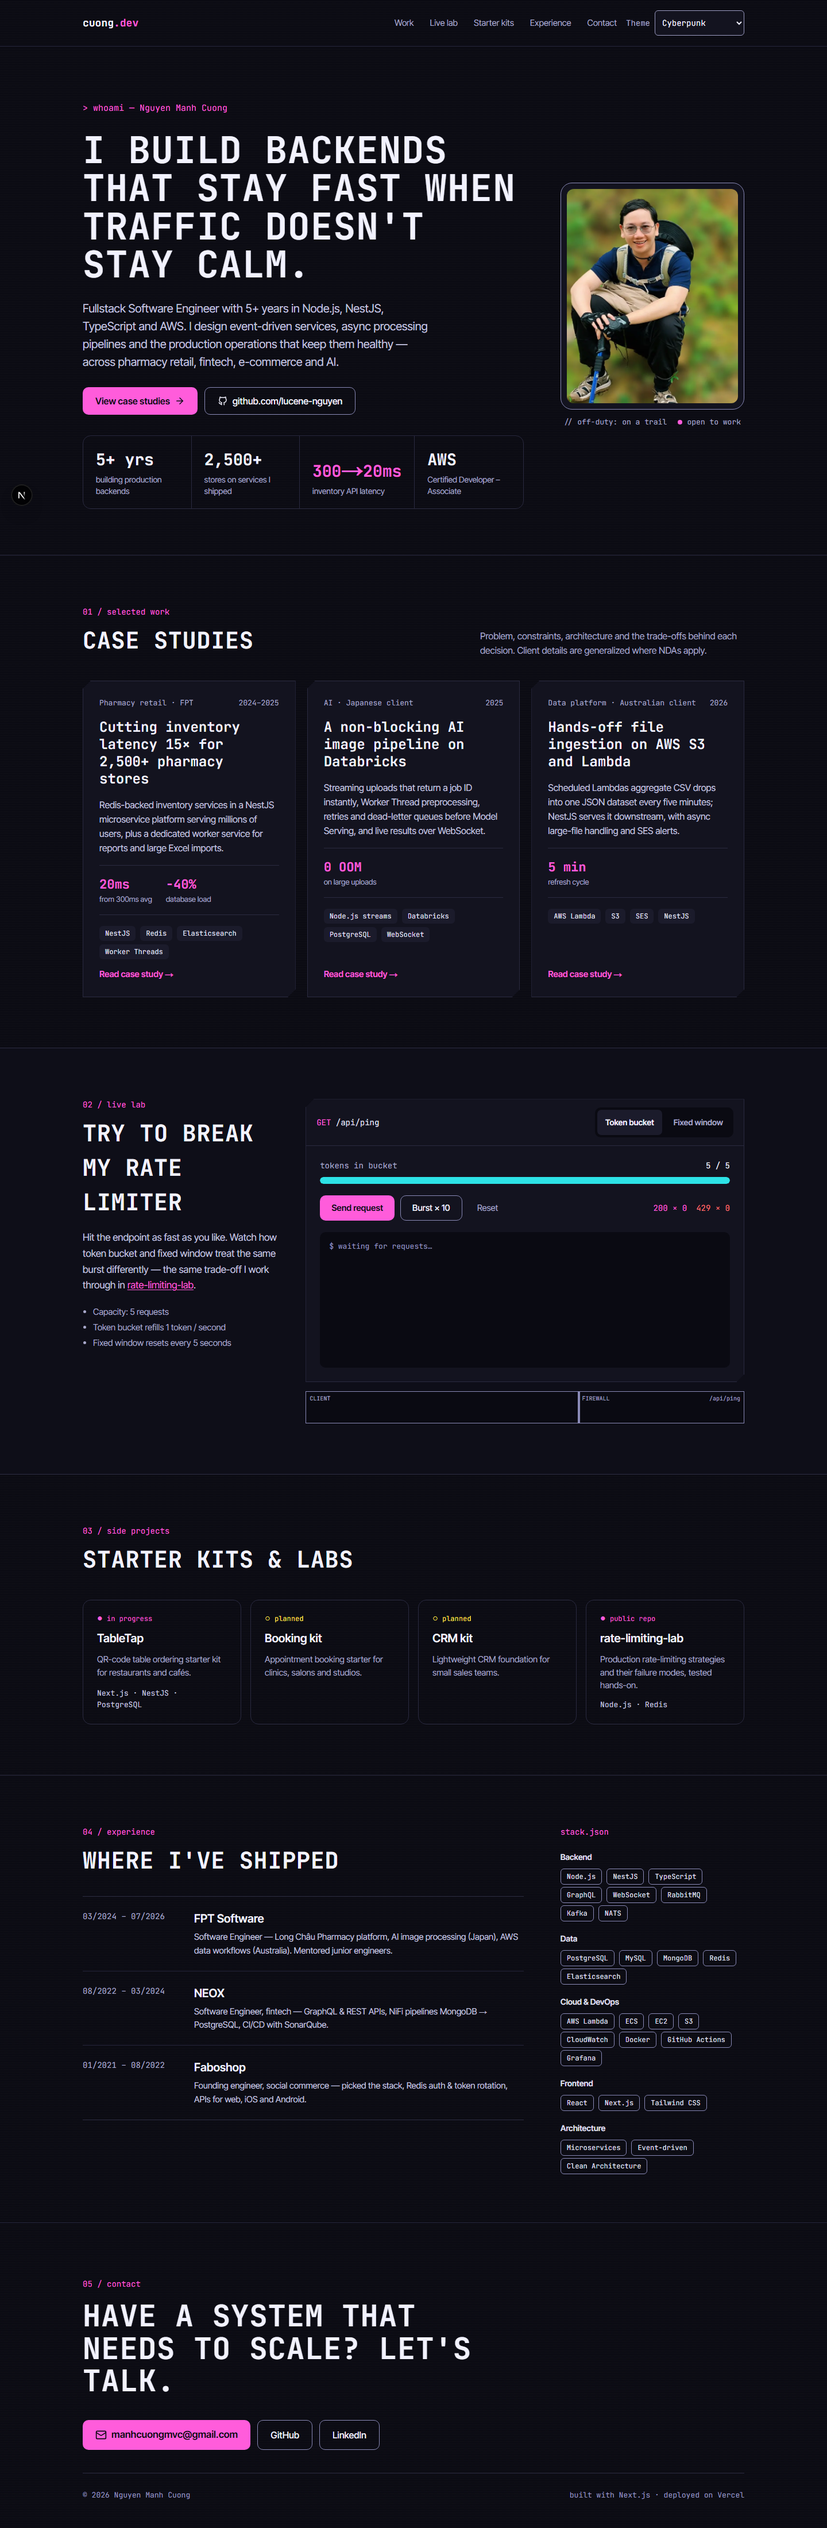
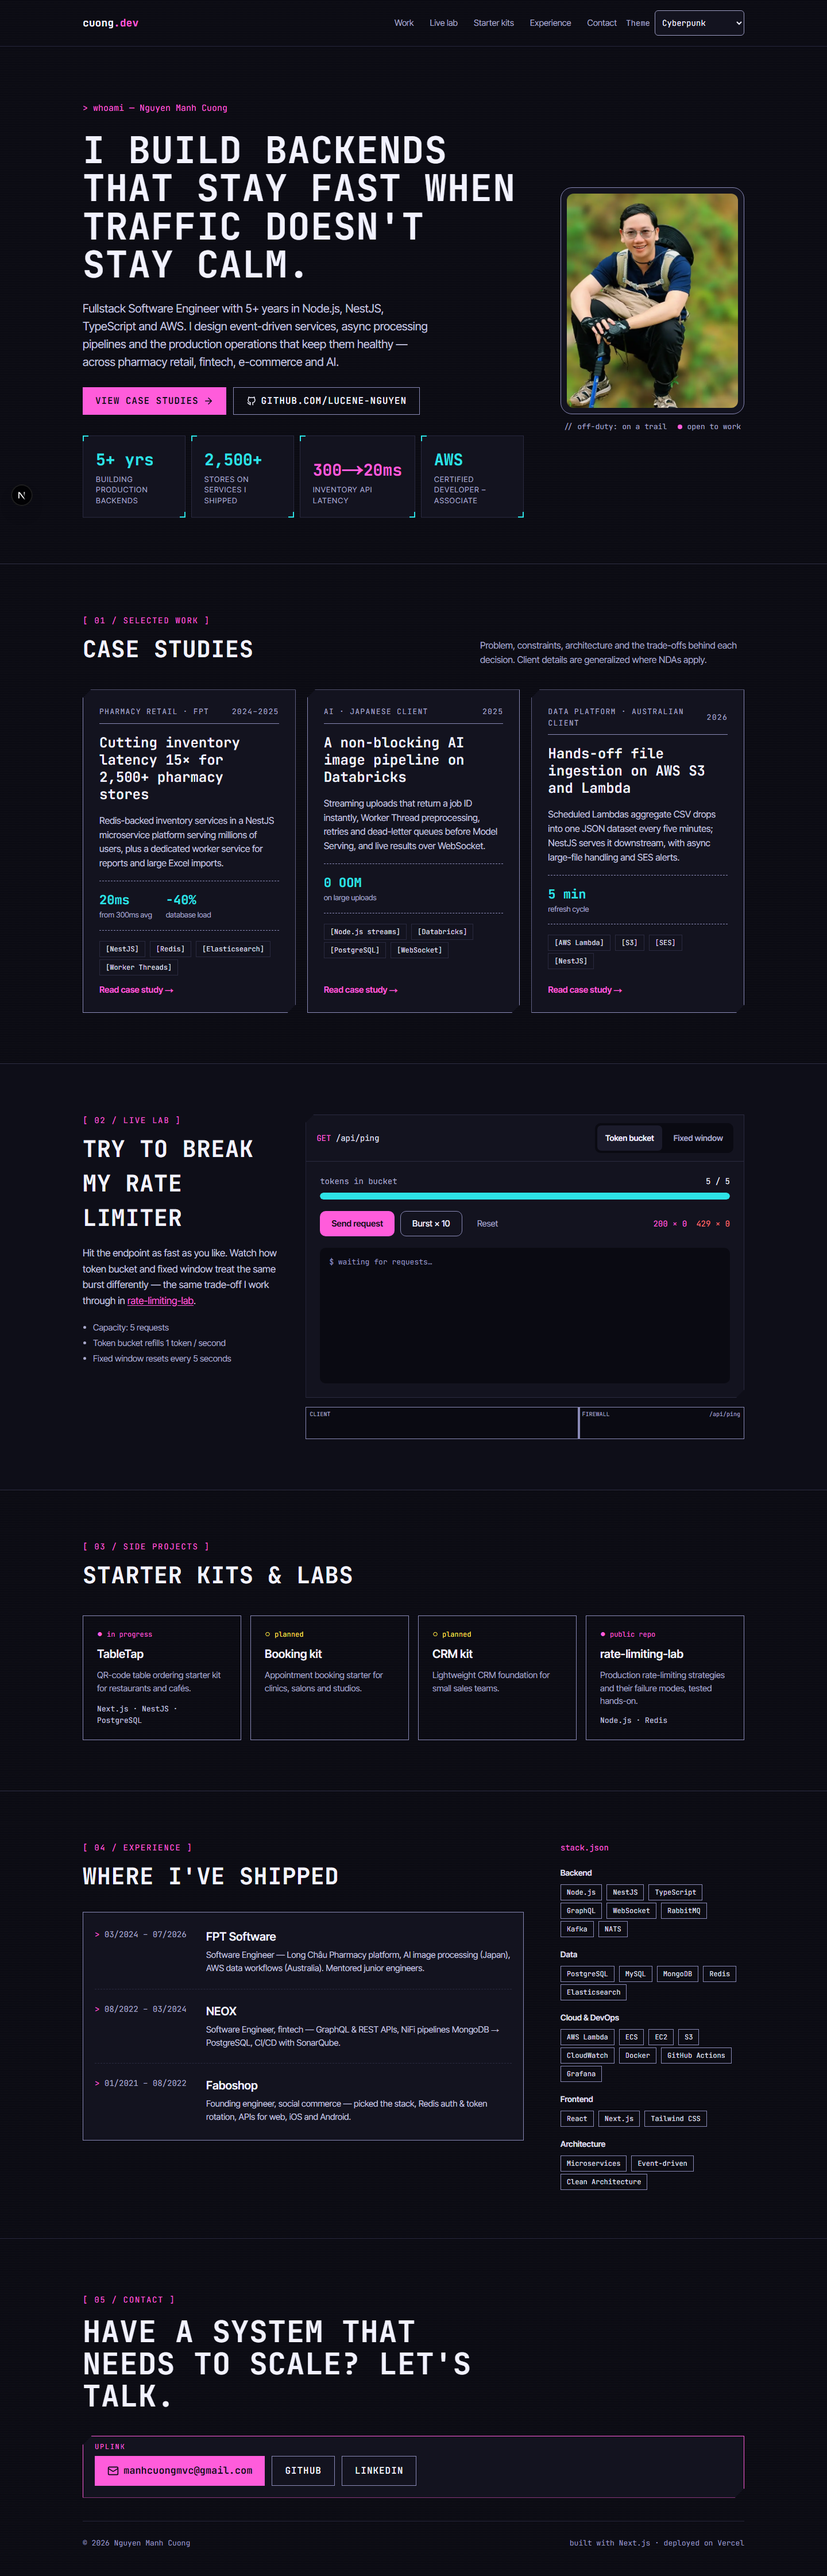
fix(ui): cyberpunk review fixes - magenta highlight, mobile uplink padding, hooks; screenshots; progress

diff --git a/themes/cyberpunk/cyberpunk.css b/themes/cyberpunk/cyberpunk.css
@@ -144,9 +144,10 @@
   border-style: dashed;
   border-color: var(--border-strong);
 }
+/* Readouts in cyan; the highlighted stat (content marks it) keeps the magenta accent. */
 [data-theme="cyberpunk"] [data-part="case-metrics"] dd,
-[data-theme="cyberpunk"] [data-part="stat"] dd {
-  color: var(--meter-fill) !important;
+[data-theme="cyberpunk"] [data-part="stat"] dd:not(.text-accent) {
+  color: var(--meter-fill);
 }
 [data-theme="cyberpunk"] [data-part="case-card"] ul span::before {
   content: "[" / "";
@@ -195,11 +196,11 @@
 [data-theme="cyberpunk"] [data-part="stat"] dt {
   text-transform: uppercase;
   letter-spacing: 0.08em;
-  font-size: 12px;
+  font-size: 13px;
 }
 
 /* Experience: access log. */
-[data-theme="cyberpunk"] #experience ol {
+[data-theme="cyberpunk"] [data-part="roles"] {
   padding: 4px 20px;
   border: 1px solid var(--border-strong);
   background: var(--surface);
@@ -257,7 +258,15 @@
   text-transform: uppercase;
   letter-spacing: 0.06em;
 }
-[data-theme="cyberpunk"] #kits li > * {
+[data-theme="cyberpunk"] [data-part="kit"] > * {
   border-radius: 0;
   border-color: var(--border-strong);
+}
+@media (max-width: 480px) {
+  [data-theme="cyberpunk"] [data-part="contact-actions"] {
+    padding-inline: 12px;
+  }
+  [data-theme="cyberpunk"] [data-part="contact-actions"] a[href^="mailto:"] {
+    font-size: 14px;
+  }
 }

diff --git a/e2e/cyberpunk.spec.ts b/e2e/cyberpunk.spec.ts
@@ -117,4 +117,12 @@ test("shared sections are restyled as HUD, not just recolored", async ({ page })
       .locator('[data-part="contact-actions"]')
       .evaluate((el) => getComputedStyle(el, "::before").content),
   ).toContain("UPLINK");
+  await expect(page.locator('[data-part="contact-actions"] a[href^="mailto:"]')).toHaveCSS(
+    "text-transform",
+    "none",
+  );
+  await expect(page.locator('[data-part="stat"] dd.text-accent')).toHaveCSS(
+    "color",
+    "rgb(255, 92, 219)",
+  );
 });

diff --git a/components/home/kits-section.tsx b/components/home/kits-section.tsx
@@ -35,7 +35,7 @@ export function KitsSection() {
             );
             // No link until the owner provides one.
             return (
-              <li key={k.name} className="flex min-w-0 flex-[1_1_250px]">
+              <li key={k.name} data-part="kit" className="flex min-w-0 flex-[1_1_250px]">
                 {shown(k.href) ? (
                   <a
                     href={k.href}

diff --git a/components/home/experience-section.tsx b/components/home/experience-section.tsx
@@ -11,7 +11,7 @@ export function ExperienceSection() {
             eyebrow={experience.eyebrow}
             title={experience.title}
           />
-          <ol>
+          <ol data-part="roles">
             {experience.roles.map((r) => (
               <li
                 key={r.company}

diff --git a/design-system/portfolio-v3/pages/cyberpunk.md b/design-system/portfolio-v3/pages/cyberpunk.md
@@ -52,7 +52,7 @@
 **How the shared sections look** (HUD language; labels are CSS with empty alt text)
 - Eyebrows → bracketed HUD labels `[ 01 / selected work ]`.
 - Case study cards → **dossiers**: chamfered frame (existing), meta line as a status bar (uppercase, rule below), metrics as cyan readouts, tags as bracketed chips.
-- Hero stats → **HUD readouts**: each stat in its own frame with cyan corner brackets; values in cyan mono.
+- Hero stats → **HUD readouts**: each stat in its own frame with cyan corner brackets; values in cyan mono; the highlighted stat stays magenta (accent).
 - Experience → **access log**: framed list, each role prefixed with a `>` prompt, dashed separators.
 - Contact → **"UPLINK" panel**: chamfered magenta frame around the actions; buttons uppercase mono, square.
 - Starter kits → framed modules with a 1px `borderStrong` frame.

diff --git a/docs/ui-round-1.md b/docs/ui-round-1.md
@@ -11,7 +11,7 @@ Per theme (item 2): ui-ux-pro-max `--domain landing` + `--domain ux` → "## Lay
 | 4 Swiss grid toggle | done | `fix/ui-swiss-grid` |
 | 2 blueprint | done | `fix/ui-blueprint` |
 | 2 pixel | done | `fix/ui-pixel` |
-| 2 cyberpunk | todo | `fix/ui-cyberpunk` |
+| 2 cyberpunk | done | `fix/ui-cyberpunk` |
 | 2 editorial | todo | `fix/ui-editorial` |
 | 2 night-terminal | todo | `fix/ui-night-terminal` |
 | 2 dashboard | todo | `fix/ui-dashboard` |
